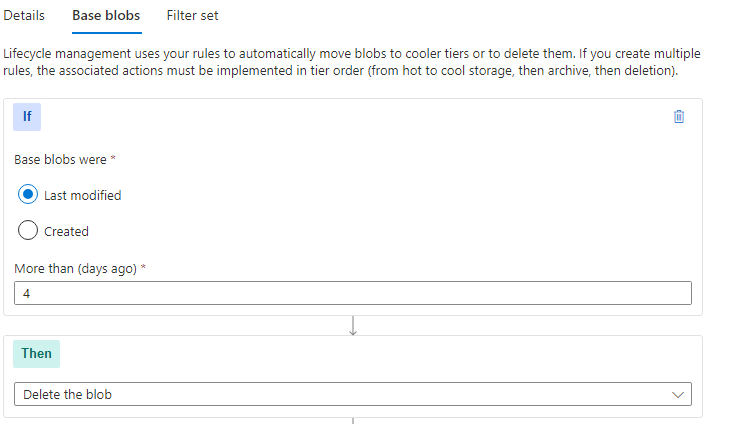
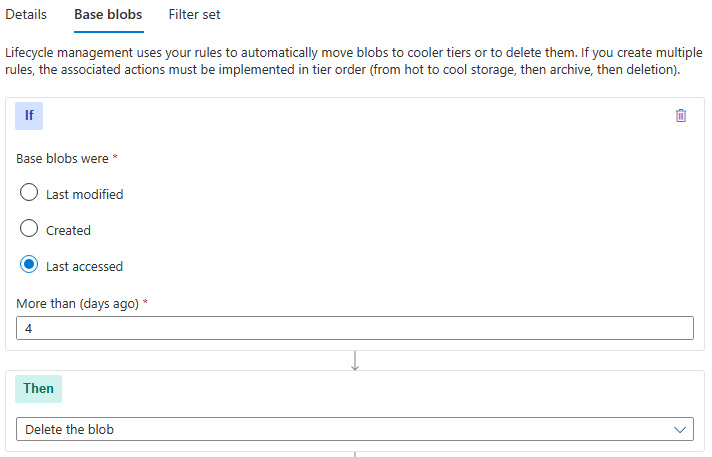
Merged PR 726821: Fix blob cache documentation around last modified vs last accessed time
Fix blob cache documentation around last modified vs last accessed time

diff --git a/Documentation/Wiki/shared-cache.md b/Documentation/Wiki/shared-cache.md
@@ -14,11 +14,15 @@ Please follow the Azure [instructions](https://learn.microsoft.com/en-us/azure/s
 
 After your account is created, the recommendation is to configure a [lifecycle management policy](https://learn.microsoft.com/en-us/azure/storage/blobs/lifecycle-management-policy-configure?tabs=azure-portal) so the cache does not grow indefinitely. The overall retention policy to configure will depend on the type of builds and frequency of your scenarios. Cost is also a consideration, as billing includes used capacity, and a higher retention policy will incur in a high cost. An initial value can be around 3 or 4 days, but experimenting with this based on your particular scenarios is highly recommended.
 
+The first step is turning on `access tracking`. This enables setting lifecycle management rules that are based on `last access time`:
+
+![Enable access tracking](blob-access-tracking.png)
+
 The cache stores two type of information: metadata (e.g. pip fingerprints) and content (e.g. output files). In order to avoid unnecesary cache lookups that will end up in misses, two management rules should be created, so metadata will be evicted slighly faster than content. Let's assume we want to define an eviction policy so content that is not used in 4 days will be evicted. We will create two lifecycle management rules for that, one for metadata and one for content:
 
 ![Two rules for lifecycle management](blob-lifecycle-policies.png)
 
-When creating the rules, select `Limit blobs with filters` and configure the `metadata-garbage-collection` rule such that if base blobs are `last modified` more than `4` days ago, then `delete the blob`:
+When creating the rules, select `Limit blobs with filters` and configure the `metadata-garbage-collection` rule such that if base blobs are `last accessed` more than `4` days ago, then `delete the blob`:
 
 ![A four day eviction policy](blob-4-day-eviction.png)
 
@@ -26,7 +30,7 @@ And then configure a filter by setting the `blob prefix` to be `metadata`:
 
 ![A Blob 'metadata' filter](blob-metadata-filter.png)
 
-Now for the content rule. As mentioned above, we want content to be evicted with a slightly lower cadence, so we avoid the extra time it takes for a cache lookup to find a fingerprint but realize later that the corresponding content has been evicted. Therefore, we will set the base blobs to be deleted after not being modified for `5` days.
+Now for the content rule. As mentioned above, we want content to be evicted with a slightly lower cadence, so we avoid the extra time it takes for a cache lookup to find a fingerprint but realize later that the corresponding content has been evicted. Therefore, we will set the base blobs to be deleted after not being accessed for `5` days.
 
 ![A five day eviction policy](blob-5-day-eviction.png)
 
